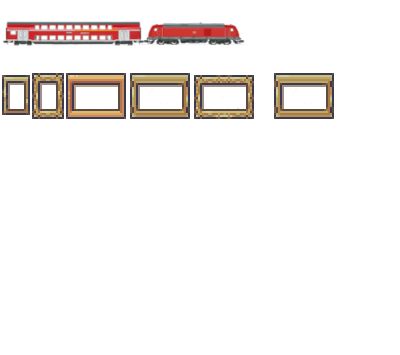
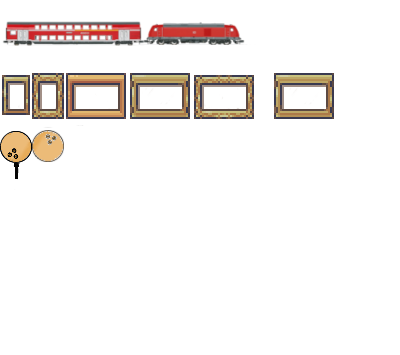
Sprelacart

Changed region(s): [[0.0, 0.3718, 0.18, 0.4958]]

diff --git a/_tafeln/Sprelacart.md b/_tafeln/Sprelacart.md
@@ -1,0 +1,21 @@
+---
+title: "Ein Stück Bowlingtreff to go"
+layout: archive
+classes: wide
+
+---
+
+[![](/img/thumbs/Sprelacart_thumb.jpg)](/img/Sprelacart.jpg)
+*<br>Ein Stück Bowlingbahn in Form einer Bowlingkugel geschnitten*
+
+Der Bowlingtreff am Wilhelm-Leuschner-Platz wird das neue Domizil des Naturkundemuseums werden. Neben seiner besonderen Baugeschichte und der architektonischen Raffinesse, barg auch das Innere des Hauses einige Überraschungen.
+
+{% include gallery class="full" layout="" caption="Für eine größere Darstellung klicke bitte auf das Bild." %}
+
+Bei seiner Eröffnung 1987 boten 14 Bowlingbahnen den Leipziger Bürgerinnen und Bürgern Möglichkeiten zur Freizeitgestaltung. Auch ein Fitnessstudio und Gastronomie war in dem Gebäude untergebracht.
+
+Damit die DDR-Spitze den Bau nicht zu ihren Zwecken nutzen könnte, waren die Bahnen gerade ein Stück zu kurz, um für internationale Wettkämpfe zu dienen. Ihr Belag ist nicht wie üblich lackiertes Holz, sondern ein ganz besonderer Kunststoff: Sprelacart.
+
+Für die Referenten der Ringvorlesung wurden daraus kleine Bowlingkugeln gesägt, die in einer limitierten Edition verschenkt werden. Auch für Sie, sehr geehrter Herr Prof. Fischnaller, ist eine Sprelacart-Bowlingkugel angefertigt worden, die wir Ihnen hiermit zuerst digital übermitteln.
+
+Haben Sie herzlichen Dank für Ihre Zeit und den spannenden Vortrag!
